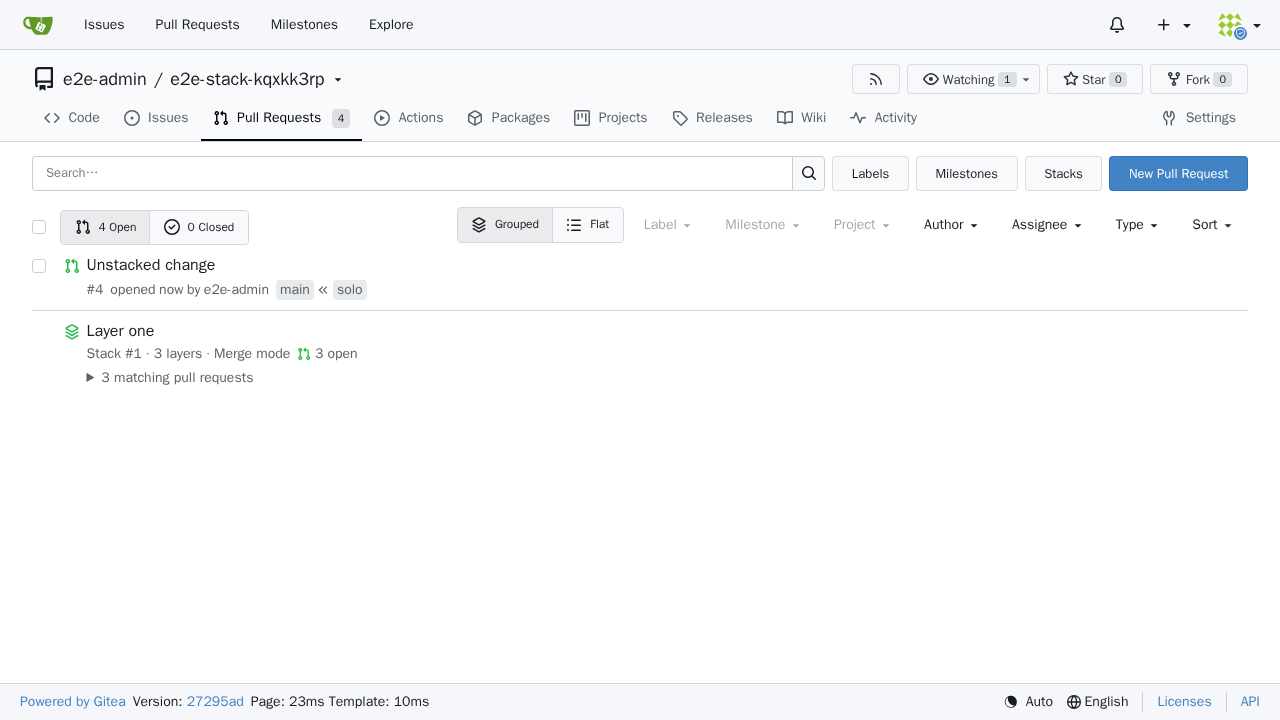
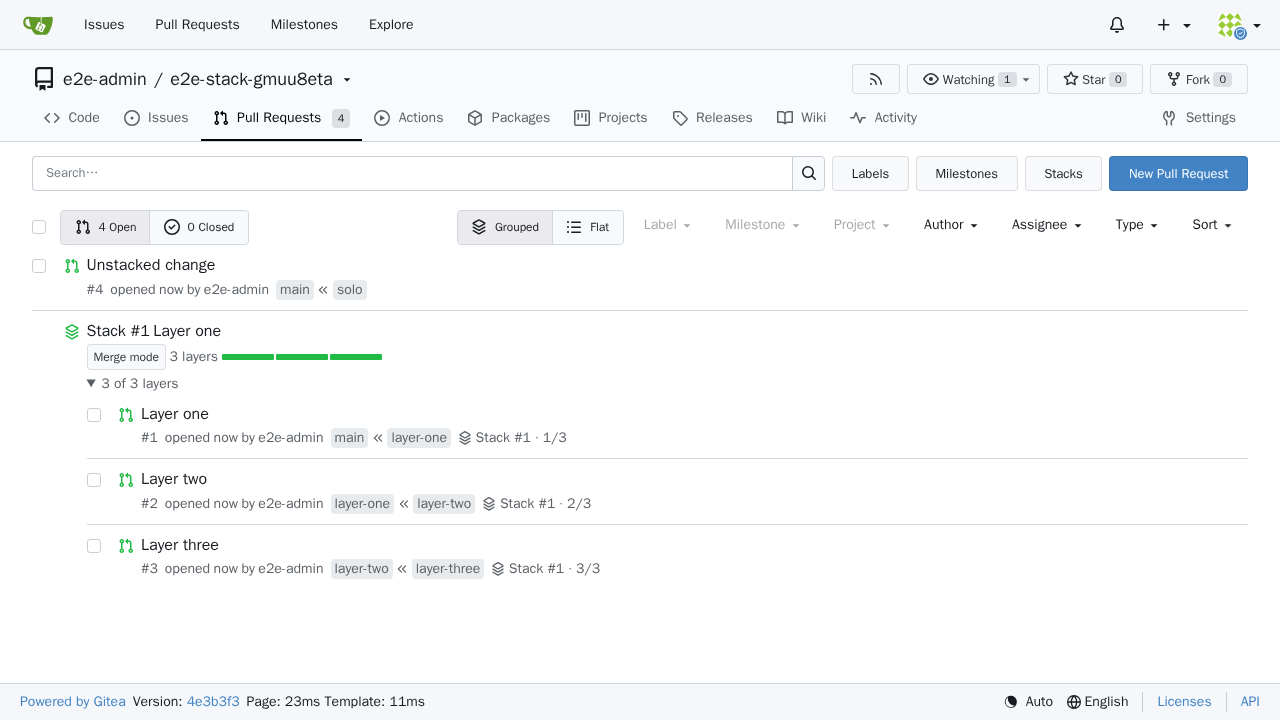
enhance(web): show stack status and keep collapsed layers out of batch actions
Stack rows now lead with the stack number, show the mode, layer count,
any active operation and a per-layer status bar, and wrap cleanly on
narrow screens. Rows with more than three layers start collapsed unless
a filter is active, where the summary reads "x of y match". Selecting
all rows skips layers hidden in collapsed stacks, and the Grouped/Flat
toggle lines up with the state menu.

Assisted-by: Claude Code:claude-opus-5-5

diff --git a/tests/e2e/stack-ui.test.ts b/tests/e2e/stack-ui.test.ts
@@ -59,15 +59,30 @@ test('stack pages create and render a pull request chain', async ({page, request
   await page.screenshot({path: testInfo.outputPath('pull-after-stack.png'), fullPage: true});
 
   await page.goto(`/${owner}/${repo}/pulls?view=grouped`); // explicit, the preference is shared with parallel projects
-  await expect(page.getByRole('link', {name: /^Stack #\d+ · 3 layers · Merge mode$/})).toBeVisible();
-  await expect(page.getByRole('link', {name: 'Layer two'})).toBeHidden();
+  const layers = page.getByText('3 of 3 layers');
+  const layerTwo = page.getByRole('checkbox', {name: /Layer two/});
+  const unstacked = page.getByRole('checkbox', {name: /Unstacked change/});
+  await expect(page.getByRole('link', {name: /^Stack #\d+$/})).toBeVisible();
+  await expect(page.getByRole('img', {name: '0 merged, 3 open, 0 closed'})).toBeVisible();
+  await expect(layerTwo).toBeVisible(); // up to three layers start expanded
   await page.screenshot({path: testInfo.outputPath('pr-list-after.png'), fullPage: true});
-  await page.getByText('3 matching pull requests').click();
-  await expect(page.getByRole('link', {name: 'Layer two'})).toBeVisible();
+  await layers.click();
+  await expect(layerTwo).toBeHidden();
+  await page.getByTitle('Check/Uncheck all items').check();
+  await expect(unstacked).toBeChecked();
+  await layers.click();
+  await expect(layerTwo).not.toBeChecked(); // collapsed layers stay out of batch actions
+  await unstacked.uncheck();
+
+  await page.setViewportSize({width: 375, height: 812});
+  await expect.poll(() => page.evaluate(() => Math.max(document.documentElement.scrollWidth, document.scrollingElement!.scrollWidth) - innerWidth)).toBeLessThanOrEqual(0);
+  await page.screenshot({path: testInfo.outputPath('pr-list-mobile.png'), fullPage: true});
+  await page.setViewportSize({width: 1280, height: 720});
+
   await page.getByRole('link', {name: 'Flat'}).click();
   await expect(page.getByRole('link', {name: /^Stack #\d+ · 2\/3$/})).toBeVisible();
   await expect(page.getByRole('link', {name: 'Unstacked change'})).toBeVisible();
   await page.screenshot({path: testInfo.outputPath('pr-list-flat.png'), fullPage: true});
   await page.getByRole('link', {name: 'Grouped'}).click();
-  await expect(page.getByRole('link', {name: 'Layer two'})).toBeHidden();
+  await expect(page.getByRole('link', {name: /^Stack #\d+$/})).toBeVisible();
 });

diff --git a/web_src/js/features/repo-issue-list.ts b/web_src/js/features/repo-issue-list.ts
@@ -15,11 +15,14 @@ function initRepoIssueListCheckboxes() {
   const issueSelectAll = document.querySelector<HTMLInputElement>('.issue-checkbox-all');
   if (!issueSelectAll) return; // logged out state
   const issueCheckboxes = document.querySelectorAll<HTMLInputElement>('.issue-checkbox');
+  // layers inside a collapsed stack row are hidden, so batch actions must not reach them
+  const visibleCheckboxes = () => Array.from(issueCheckboxes).filter((el) => !el.closest('details:not([open])'));
 
   const syncIssueSelectionState = () => {
-    const checkedCheckboxes = Array.from(issueCheckboxes).filter((el) => el.checked);
+    const visible = visibleCheckboxes();
+    const checkedCheckboxes = visible.filter((el) => el.checked);
     const anyChecked = Boolean(checkedCheckboxes.length);
-    const allChecked = anyChecked && checkedCheckboxes.length === issueCheckboxes.length;
+    const allChecked = anyChecked && checkedCheckboxes.length === visible.length;
 
     if (allChecked) {
       issueSelectAll.checked = true;
@@ -46,11 +49,19 @@ function initRepoIssueListCheckboxes() {
   }
 
   issueSelectAll.addEventListener('change', () => {
-    for (const el of issueCheckboxes) {
+    for (const el of visibleCheckboxes()) {
       el.checked = issueSelectAll.checked;
     }
     syncIssueSelectionState();
   });
+
+  document.querySelector('#issue-list')!.addEventListener('toggle', (e) => {
+    const details = e.target as HTMLDetailsElement;
+    if (!details.open) {
+      for (const el of details.querySelectorAll<HTMLInputElement>('.issue-checkbox')) el.checked = false;
+    }
+    syncIssueSelectionState();
+  }, {capture: true}); // "toggle" does not bubble
 
   queryElems(document, '.issue-action', (el) => el.addEventListener('click',
     async (e: MouseEvent) => {

diff --git a/web_src/css/repo/issue-list.css b/web_src/css/repo/issue-list.css
@@ -128,3 +128,39 @@
 .list-item-secondary-bar a:hover {
   color: var(--color-text);
 }
+
+.stack-status-bar {
+  display: flex;
+  gap: 2px;
+  width: 160px;
+  height: 6px;
+}
+
+.stack-status-bar > span {
+  flex: 1;
+  border-radius: 1px;
+}
+
+.stack-status-bar > .merged {
+  background: var(--color-purple);
+}
+
+.stack-status-bar > .open {
+  background: var(--color-green);
+}
+
+.stack-status-bar > .closed {
+  background: var(--color-red);
+}
+
+@media (max-width: 767.98px) {
+  .stack-status-bar {
+    width: 100%;
+  }
+}
+
+@media (forced-colors: active) {
+  .stack-status-bar > span {
+    background: CanvasText;
+  }
+}

diff --git a/models/issues/stack_list.go b/models/issues/stack_list.go
@@ -13,26 +13,28 @@ import (
 
 // StackLayer is one pull request of an open stack, as the pull request list shows it.
 type StackLayer struct {
-	StackID   int64
-	Mode      string
-	Position  int
-	IssueID   int64
-	Index     int64
-	Title     string
-	IsClosed  bool
-	HasMerged bool
-	Stack     *StackSummary `xorm:"-"`
+	StackID        int64
+	Mode           string
+	Position       int
+	IssueID        int64
+	Index          int64
+	Title          string
+	IsClosed       bool
+	HasMerged      bool
+	OperationState string
+	Stack          *StackSummary `xorm:"-"`
 }
 
 // StackSummary aggregates every layer of an open stack, including layers outside the listed page.
 type StackSummary struct {
-	ID     int64
-	Mode   string
-	Size   int
-	Merged int
-	Open   int
-	Closed int
-	Bottom *StackLayer // lowest open layer, which lands next; the first layer when none is open
+	ID        int64
+	Mode      string
+	Operation string // state of the active operation, if any
+	Layers    []*StackLayer
+	Merged    int
+	Open      int
+	Closed    int
+	Bottom    *StackLayer // lowest open layer, which lands next; the first layer when none is open
 }
 
 // OpenStacks indexes a repository's open stacks by stack and by layer issue.
@@ -54,8 +56,9 @@ func FindOpenStackLayers(ctx context.Context, repoID int64) ([]*StackLayer, erro
 		Join("INNER", "pull_request_stack", "pull_request_stack.id = stack_entry.stack_id").
 		Join("INNER", "pull_request", "pull_request.id = stack_entry.pull_request_id").
 		Join("INNER", "issue", "issue.id = pull_request.issue_id").
+		Join("LEFT", "stack_operation", "stack_operation.id = pull_request_stack.active_operation_id").
 		Where("pull_request_stack.repo_id = ? AND pull_request_stack.state = ?", repoID, StackStateOpen).
-		Select("stack_entry.stack_id, pull_request_stack.mode, stack_entry.position, issue.id AS issue_id, issue.`index`, issue.name AS title, issue.is_closed, pull_request.has_merged").
+		Select("stack_entry.stack_id, pull_request_stack.mode, stack_entry.position, issue.id AS issue_id, issue.`index`, issue.name AS title, issue.is_closed, pull_request.has_merged, stack_operation.state AS operation_state").
 		Asc("stack_entry.stack_id", "stack_entry.position").
 		Find(&layers)
 	return layers, err
@@ -67,10 +70,10 @@ func NewOpenStacks(layers []*StackLayer) *OpenStacks {
 	for _, layer := range layers {
 		summary := stacks.Stacks[layer.StackID]
 		if summary == nil {
-			summary = &StackSummary{ID: layer.StackID, Mode: layer.Mode, Bottom: layer}
+			summary = &StackSummary{ID: layer.StackID, Mode: layer.Mode, Operation: layer.OperationState, Bottom: layer}
 			stacks.Stacks[layer.StackID] = summary
 		}
-		summary.Size++
+		summary.Layers = append(summary.Layers, layer)
 		switch {
 		case layer.HasMerged:
 			summary.Merged++

diff --git a/tests/integration/stack_ui_test.go b/tests/integration/stack_ui_test.go
@@ -62,6 +62,10 @@ func TestPullListGroupsStacks(t *testing.T) {
 	for i, pullID := range []int64{1, 2, 5} { // fixture pulls #2 (merged), #3 and #5
 		require.NoError(t, db.Insert(t.Context(), &issues_model.StackEntry{StackID: stack.ID, PullRequestID: pullID, Position: i + 1}))
 	}
+	op := &issues_model.StackOperation{StackID: stack.ID, Kind: "land", State: "blocked"}
+	require.NoError(t, db.Insert(t.Context(), op))
+	_, err := db.GetEngine(t.Context()).ID(stack.ID).Cols("active_operation_id").Update(&issues_model.PullRequestStack{ActiveOperationID: op.ID})
+	require.NoError(t, err)
 	stackLink := fmt.Sprintf(`a[href="/user2/repo1/pulls/stacks/%d"]`, stack.ID)
 	list := func(query string) *HTMLDoc {
 		return NewHTMLParser(t, session.MakeRequest(t, NewRequest(t, http.MethodGet, "/user2/repo1/pulls"+query), http.StatusOK).Body)
@@ -70,9 +74,11 @@ func TestPullListGroupsStacks(t *testing.T) {
 	doc := list("")
 	assert.Equal(t, 2, doc.Find("#issue-list > .item").Length())
 	stackRow := doc.Find("#issue-list > .item:has(details)")
-	assert.Contains(t, stackRow.Find(".item-header").First().Text(), "issue3") // lowest open layer; #2 has merged
-	assert.Contains(t, stackRow.Find(".item-body "+stackLink).First().Text(), "3 layers")
-	assert.Equal(t, 3, stackRow.Find("details:not([open]) .index").Length())
+	assert.Equal(t, fmt.Sprintf("Stack #%d issue3", stack.ID), strings.Join(strings.Fields(stackRow.Find(".item-header").First().Text()), " ")) // lowest open layer; #2 has merged
+	assert.Contains(t, stackRow.Find(".item-body").First().Text(), "Operation: blocked")
+	assert.Equal(t, 3, stackRow.Find(".stack-status-bar > span").Length())
+	assert.Equal(t, "3 of 3 layers", strings.TrimSpace(stackRow.Find("details[open] > summary").Text())) // few layers start expanded
+	assert.Equal(t, 3, stackRow.Find("details .index").Length())
 	assert.Equal(t, "4 Open", strings.Join(strings.Fields(doc.Find(".small-menu-items .item").First().Text()), " ")) // counts individual pulls
 
 	doc = list("?view=flat")
@@ -82,6 +88,7 @@ func TestPullListGroupsStacks(t *testing.T) {
 
 	doc = list("?view=grouped&milestone=3")
 	assert.Equal(t, 1, doc.Find("#issue-list > .item").Length())
+	assert.Equal(t, "1 of 3 match", strings.TrimSpace(doc.Find("#issue-list details[open] > summary").Text()))
 	layers := doc.Find("#issue-list details[open] .index")
 	assert.Equal(t, []string{"#3"}, layers.Map(func(_ int, s *goquery.Selection) string { return strings.TrimSpace(s.Text()) }))
 }

diff --git a/routers/web/repo/issue_list.go b/routers/web/repo/issue_list.go
@@ -615,9 +615,10 @@ func prepareIssueFilterAndList(ctx *context.Context, milestoneID int64, projectI
 	ctx.Data["Issues"] = issues
 	ctx.Data["OpenStacks"] = openStacks
 	if grouped {
-		ctx.Data["IssueGroups"] = pullListRows(issues, groups, openStacks)
-		ctx.Data["StackRowsOpen"] = keyword != "" || viewType != "all" || len(preparedLabelFilter.SelectedLabelIDs) > 0 || milestoneID != 0 ||
-			len(projectIDs) > 0 || assigneeID != "" || posterUsername != "" // show which layers matched the filter
+		filtered := keyword != "" || viewType != "all" || len(preparedLabelFilter.SelectedLabelIDs) > 0 || milestoneID != 0 ||
+			len(projectIDs) > 0 || assigneeID != "" || posterUsername != ""
+		ctx.Data["IssueGroups"] = pullListRows(issues, groups, openStacks, filtered)
+		ctx.Data["StackRowsFiltered"] = filtered
 	}
 	ctx.Data["CommitLastStatus"] = lastStatus
 	ctx.Data["CommitStatuses"] = commitStatuses
@@ -719,12 +720,15 @@ func preparePullListView(ctx *context.Context) string {
 
 // pullListRow is either a lone pull request or the listed layers of one stack.
 type pullListRow struct {
-	Issue  *issues_model.Issue
-	Stack  *issues_model.StackSummary
-	Layers issues_model.IssueList
+	Issue    *issues_model.Issue
+	Stack    *issues_model.StackSummary
+	Layers   issues_model.IssueList
+	Expanded bool
 }
 
-func pullListRows(issues issues_model.IssueList, groups []issues_model.IssueGroup, stacks *issues_model.OpenStacks) []*pullListRow {
+const pullListStackCollapseAbove = 3
+
+func pullListRows(issues issues_model.IssueList, groups []issues_model.IssueGroup, stacks *issues_model.OpenStacks, filtered bool) []*pullListRow {
 	byID := make(map[int64]*issues_model.Issue, len(issues))
 	for _, issue := range issues {
 		byID[issue.ID] = issue
@@ -743,6 +747,7 @@ func pullListRows(issues issues_model.IssueList, groups []issues_model.IssueGrou
 		if row.Stack == nil {
 			row.Issue = row.Layers[0]
 		}
+		row.Expanded = filtered || len(row.Layers) <= pullListStackCollapseAbove // a filter points at exact layers
 		rows = append(rows, row)
 	}
 	return rows

diff --git a/models/issues/stack_list_test.go b/models/issues/stack_list_test.go
@@ -30,7 +30,7 @@ func TestOpenStacksGroup(t *testing.T) {
 
 	first, second, landed := stacks.Stacks[1], stacks.Stacks[2], stacks.Stacks[3]
 	assert.Equal(t, [3]int{1, 2, 0}, [3]int{first.Merged, first.Open, first.Closed})
-	assert.Equal(t, 3, first.Size)
+	assert.Len(t, first.Layers, 3)
 	assert.EqualValues(t, 11, first.Bottom.IssueID)
 	assert.Equal(t, [3]int{0, 1, 1}, [3]int{second.Merged, second.Open, second.Closed})
 	assert.EqualValues(t, 21, second.Bottom.IssueID)

diff --git a/docs/stacked-pull-requests.md b/docs/stacked-pull-requests.md
@@ -51,9 +51,11 @@ individual layer diff as usual. A closed but unmerged predecessor does not satis
 the stack's landing order.
 
 The repository's pull request list shows each open stack as one expandable row
-listing the layers that match the current filters. Rows expand by default while a
-filter or search is active. Choose **Flat** to list every pull request with a
-stack badge instead; the choice is remembered per user.
+with its mode, size and a per-layer status bar, listing the layers that match the
+current filters. Rows start expanded while a filter or search is active, or when
+three or fewer layers match. Selecting all rows skips layers of collapsed stacks.
+Choose **Flat** to list every pull request with a stack badge instead; the choice
+is remembered per user.
 
 Append additional pull requests whose bases continue the chain. To restructure
 an open stack, unstack it, adjust the ordinary branches and pull request bases,
